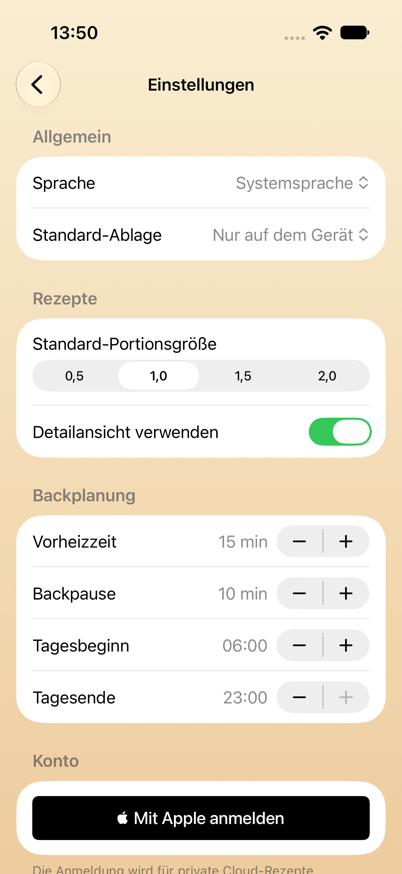
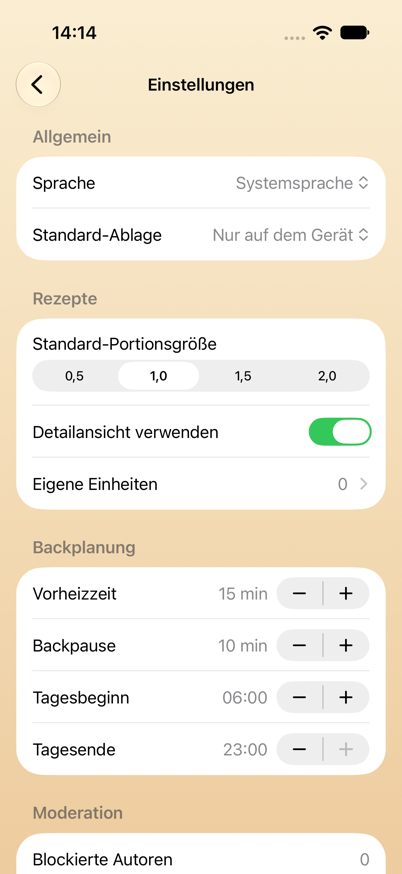
Retake the settings screenshot for the manual
The image was from 10 September and showed neither the "Eigene Einheiten"
row nor the Moderation section, so the chapter it illustrates had drifted
away from it.

Captured on the iPhone 17 Pro simulator at 402x874, the same size as the
other seven images in the manual, so no rescaling was involved. The frame
now ends just as Moderation begins, which matches the caption saying the
remaining sections follow below.

The alt text spells out the individual settings instead of naming the
three section headings, since that is what someone relying on it needs.

Changed region(s): [[0.0299, 0.4943, 0.9851, 1.0], [0.1194, 0.0309, 0.2388, 0.0618]]

diff --git a/docs/Benutzerhandbuch.md b/docs/Benutzerhandbuch.md
@@ -551,7 +551,7 @@ Die App filtert bewusst:
 
 **Hauptmenü → Einstellungen.**
 
-![Einstellungen von BakePlanner, oben die Bereiche Allgemein, Rezepte und Backplanung](images/einstellungen.png)
+![Einstellungen von BakePlanner: Allgemein mit Sprache und Standard-Ablage, Rezepte mit Standard-Portionsgröße, Detailansicht und Eigene Einheiten, Backplanung mit Vorheizzeit, Backpause, Tagesbeginn und Tagesende; darunter beginnt Moderation](images/einstellungen.png)
 
 *Die Einstellungen bündeln Sprache, Standardwerte und Vorgaben für die Backplanung. Weiter unten folgen die Bereiche Moderation und Konto.*
 
